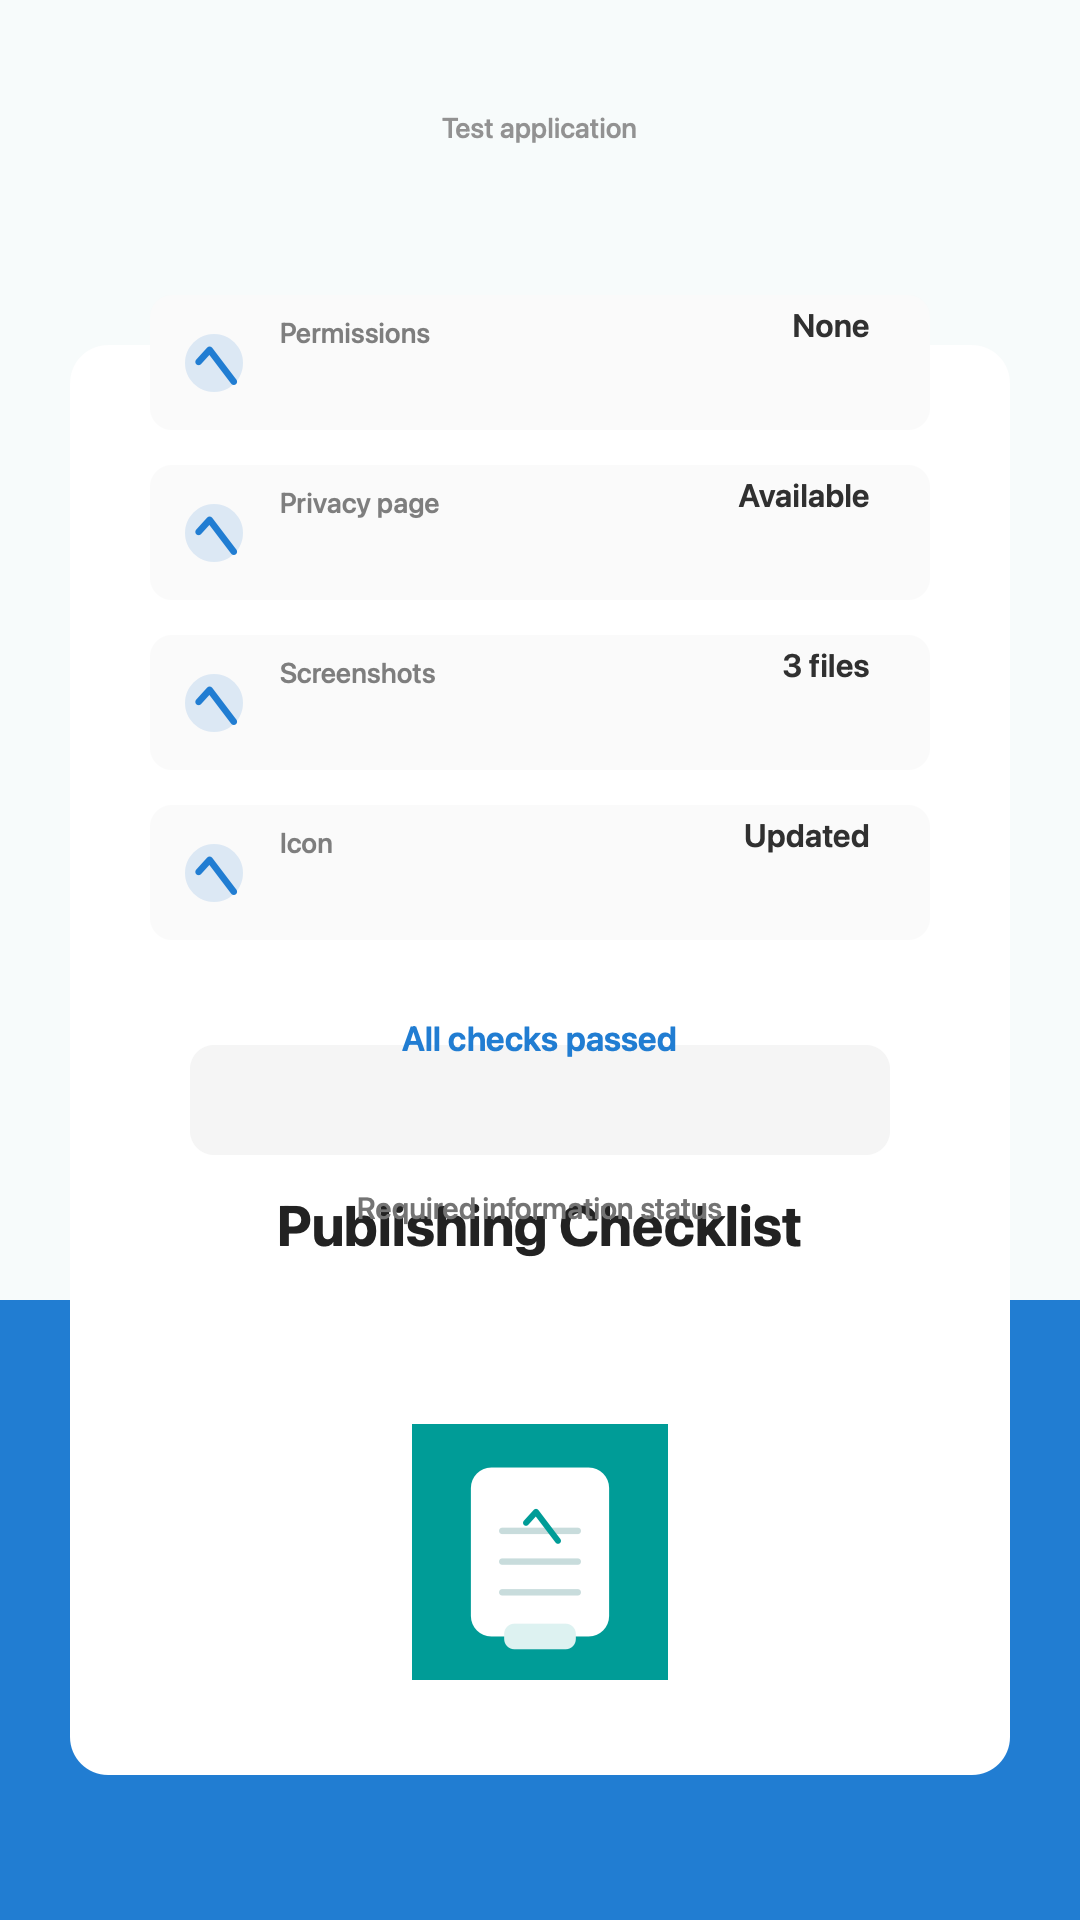
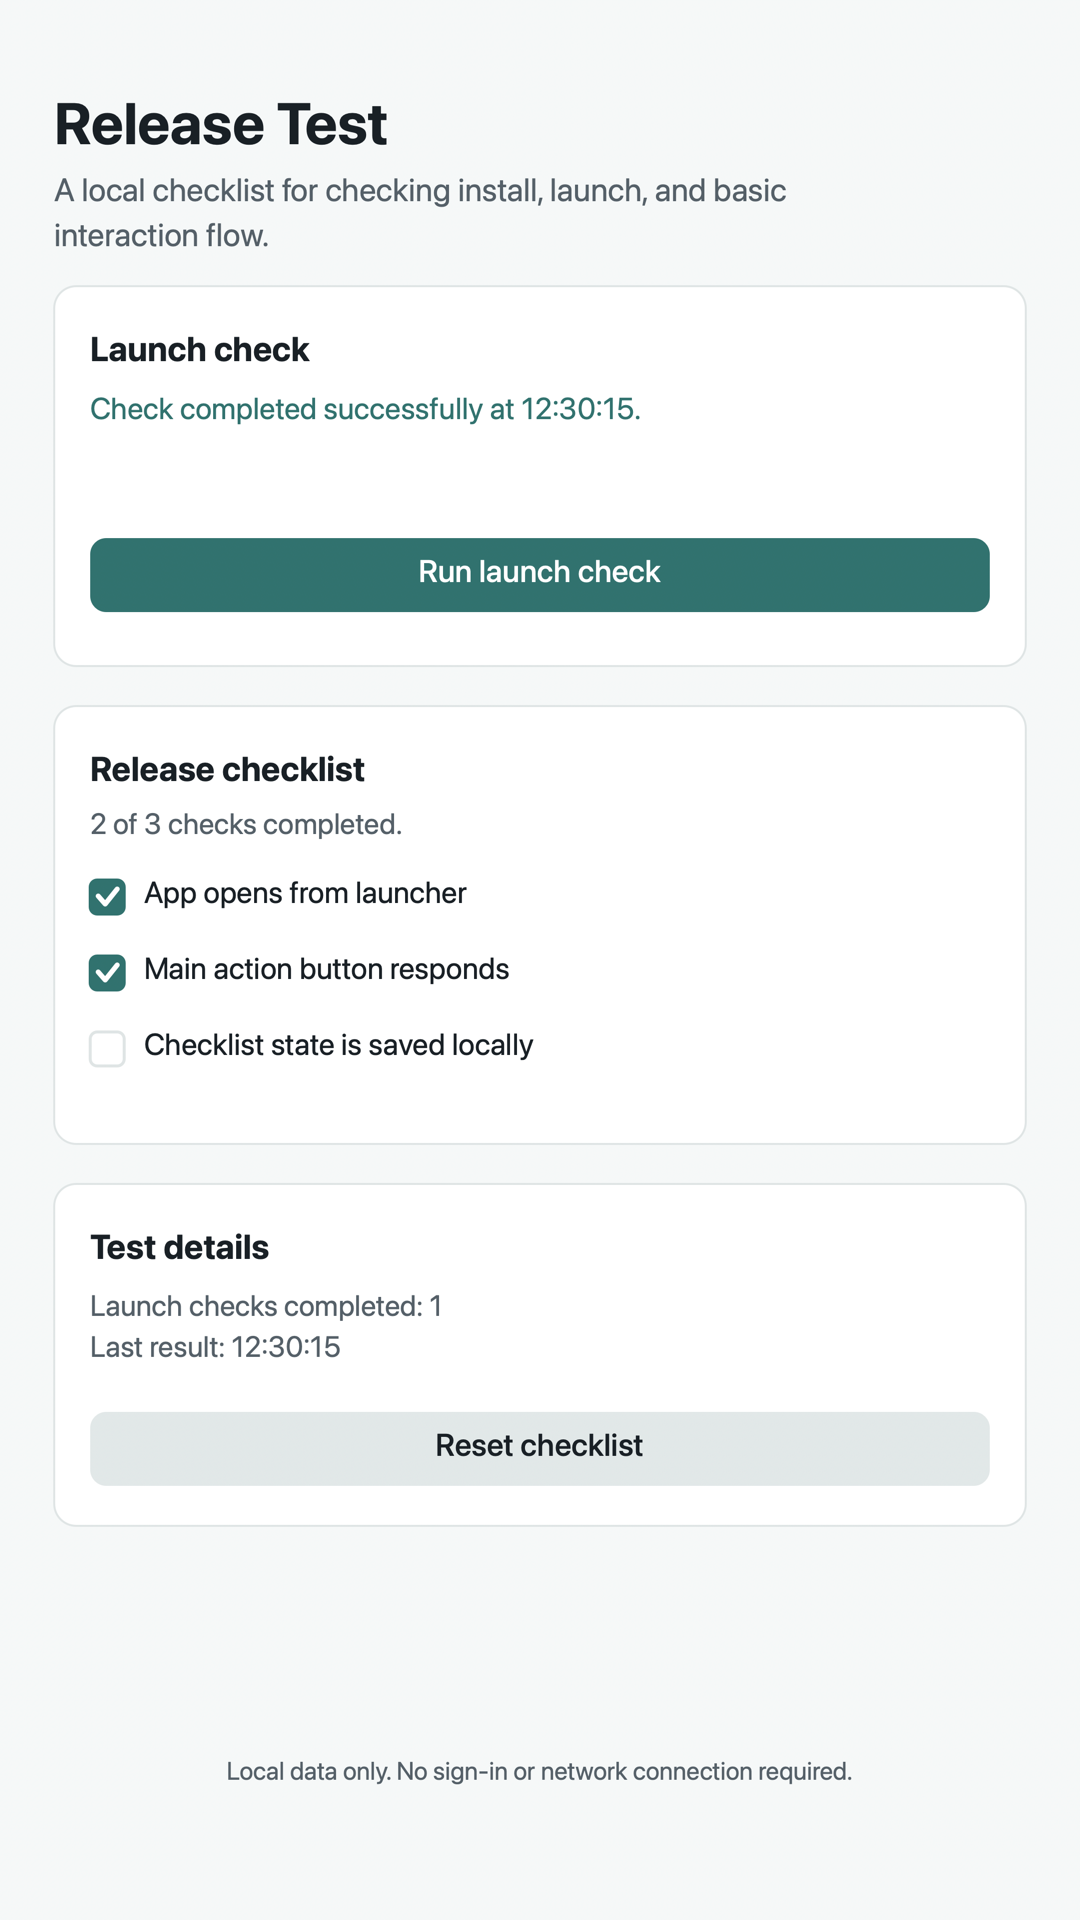
Add functional release checklist

diff --git a/app/src/main/java/com/vlados/appgallerytest/MainActivity.java b/app/src/main/java/com/vlados/appgallerytest/MainActivity.java
@@ -1,62 +1,230 @@
 package com.vlados.appgallerytest;
 
 import android.app.Activity;
+import android.content.SharedPreferences;
 import android.graphics.Color;
 import android.graphics.Typeface;
+import android.graphics.drawable.GradientDrawable;
 import android.os.Bundle;
-import android.view.Gravity;
 import android.view.ViewGroup;
+import android.widget.Button;
+import android.widget.CheckBox;
+import android.widget.CompoundButton;
 import android.widget.LinearLayout;
+import android.widget.ScrollView;
 import android.widget.TextView;
 
+import java.text.SimpleDateFormat;
+import java.util.Date;
+import java.util.Locale;
+
 public class MainActivity extends Activity {
+    private static final String PREFS_NAME = "release_test_state";
+    private static final String KEY_INSTALL = "install_checked";
+    private static final String KEY_ACTION = "action_checked";
+    private static final String KEY_STATE = "state_checked";
+    private static final String KEY_RUN_COUNT = "run_count";
+    private static final String KEY_LAST_RUN = "last_run";
+
+    private SharedPreferences prefs;
+    private TextView statusValue;
+    private TextView checklistSummary;
+    private TextView runCountValue;
+    private CheckBox installCheck;
+    private CheckBox actionCheck;
+    private CheckBox stateCheck;
+
     @Override
     protected void onCreate(Bundle savedInstanceState) {
         super.onCreate(savedInstanceState);
 
-        int padding = dp(24);
+        prefs = getSharedPreferences(PREFS_NAME, MODE_PRIVATE);
+
+        ScrollView scrollView = new ScrollView(this);
+        scrollView.setFillViewport(true);
+        scrollView.setBackgroundColor(Color.rgb(245, 248, 248));
 
         LinearLayout root = new LinearLayout(this);
         root.setOrientation(LinearLayout.VERTICAL);
-        root.setGravity(Gravity.CENTER);
-        root.setPadding(padding, padding, padding, padding);
-        root.setBackgroundColor(Color.rgb(245, 248, 248));
-
-        TextView title = new TextView(this);
-        title.setText("Release Test");
-        title.setTextColor(Color.rgb(23, 32, 38));
-        title.setTextSize(30);
-        title.setTypeface(Typeface.DEFAULT, Typeface.BOLD);
-        title.setGravity(Gravity.CENTER);
-
-        TextView subtitle = new TextView(this);
-        subtitle.setText("Test application for validating mobile store release flow.");
-        subtitle.setTextColor(Color.rgb(82, 96, 105));
-        subtitle.setTextSize(17);
-        subtitle.setGravity(Gravity.CENTER);
-        subtitle.setPadding(0, dp(16), 0, 0);
-
-        TextView status = new TextView(this);
-        status.setText("Installed and launched successfully");
-        status.setTextColor(Color.rgb(0, 116, 111));
-        status.setTextSize(18);
-        status.setGravity(Gravity.CENTER);
-        status.setPadding(0, dp(36), 0, 0);
-
-        root.addView(title, new LinearLayout.LayoutParams(
-                ViewGroup.LayoutParams.MATCH_PARENT,
-                ViewGroup.LayoutParams.WRAP_CONTENT
-        ));
-        root.addView(subtitle, new LinearLayout.LayoutParams(
-                ViewGroup.LayoutParams.MATCH_PARENT,
-                ViewGroup.LayoutParams.WRAP_CONTENT
-        ));
-        root.addView(status, new LinearLayout.LayoutParams(
+        root.setPadding(dp(24), dp(32), dp(24), dp(32));
+        scrollView.addView(root, new ScrollView.LayoutParams(
                 ViewGroup.LayoutParams.MATCH_PARENT,
                 ViewGroup.LayoutParams.WRAP_CONTENT
         ));
 
-        setContentView(root);
+        TextView title = text("Release Test", 30, Color.rgb(23, 32, 38), true);
+        TextView subtitle = text(
+                "A local checklist for checking install, launch, and basic interaction flow.",
+                17,
+                Color.rgb(82, 96, 105),
+                false
+        );
+        subtitle.setPadding(0, dp(10), 0, dp(22));
+
+        root.addView(title);
+        root.addView(subtitle);
+
+        LinearLayout statusCard = card();
+        TextView statusTitle = text("Launch check", 18, Color.rgb(23, 32, 38), true);
+        statusValue = text("", 16, Color.rgb(0, 116, 111), false);
+        statusValue.setPadding(0, dp(10), 0, dp(14));
+
+        Button runButton = new Button(this);
+        runButton.setText("Run launch check");
+        runButton.setAllCaps(false);
+        runButton.setTextSize(16);
+        runButton.setTextColor(Color.WHITE);
+        runButton.setBackground(buttonBackground(Color.rgb(0, 116, 111)));
+        runButton.setPadding(dp(14), dp(10), dp(14), dp(10));
+        runButton.setOnClickListener(view -> runLaunchCheck());
+
+        statusCard.addView(statusTitle);
+        statusCard.addView(statusValue);
+        statusCard.addView(runButton, new LinearLayout.LayoutParams(
+                ViewGroup.LayoutParams.MATCH_PARENT,
+                ViewGroup.LayoutParams.WRAP_CONTENT
+        ));
+        root.addView(statusCard);
+
+        LinearLayout checklistCard = card();
+        TextView checklistTitle = text("Release checklist", 18, Color.rgb(23, 32, 38), true);
+        checklistSummary = text("", 15, Color.rgb(82, 96, 105), false);
+        checklistSummary.setPadding(0, dp(8), 0, dp(12));
+
+        installCheck = checkbox("App opens from launcher", KEY_INSTALL);
+        actionCheck = checkbox("Main action button responds", KEY_ACTION);
+        stateCheck = checkbox("Checklist state is saved locally", KEY_STATE);
+
+        checklistCard.addView(checklistTitle);
+        checklistCard.addView(checklistSummary);
+        checklistCard.addView(installCheck);
+        checklistCard.addView(actionCheck);
+        checklistCard.addView(stateCheck);
+        root.addView(checklistCard);
+
+        LinearLayout detailsCard = card();
+        TextView detailsTitle = text("Test details", 18, Color.rgb(23, 32, 38), true);
+        runCountValue = text("", 15, Color.rgb(82, 96, 105), false);
+        runCountValue.setPadding(0, dp(10), 0, dp(14));
+
+        Button resetButton = new Button(this);
+        resetButton.setText("Reset checklist");
+        resetButton.setAllCaps(false);
+        resetButton.setTextSize(16);
+        resetButton.setTextColor(Color.rgb(23, 32, 38));
+        resetButton.setBackground(buttonBackground(Color.rgb(224, 232, 232)));
+        resetButton.setPadding(dp(14), dp(10), dp(14), dp(10));
+        resetButton.setOnClickListener(view -> resetState());
+
+        detailsCard.addView(detailsTitle);
+        detailsCard.addView(runCountValue);
+        detailsCard.addView(resetButton, new LinearLayout.LayoutParams(
+                ViewGroup.LayoutParams.MATCH_PARENT,
+                ViewGroup.LayoutParams.WRAP_CONTENT
+        ));
+        root.addView(detailsCard);
+
+        updateUi();
+        setContentView(scrollView);
+    }
+
+    private void runLaunchCheck() {
+        int nextCount = prefs.getInt(KEY_RUN_COUNT, 0) + 1;
+        String time = new SimpleDateFormat("HH:mm:ss", Locale.US).format(new Date());
+        prefs.edit()
+                .putBoolean(KEY_ACTION, true)
+                .putInt(KEY_RUN_COUNT, nextCount)
+                .putString(KEY_LAST_RUN, time)
+                .apply();
+        actionCheck.setChecked(true);
+        updateUi();
+    }
+
+    private void resetState() {
+        prefs.edit().clear().apply();
+        installCheck.setChecked(false);
+        actionCheck.setChecked(false);
+        stateCheck.setChecked(false);
+        updateUi();
+    }
+
+    private CheckBox checkbox(String label, String key) {
+        CheckBox checkBox = new CheckBox(this);
+        checkBox.setText(label);
+        checkBox.setTextSize(16);
+        checkBox.setTextColor(Color.rgb(23, 32, 38));
+        checkBox.setPadding(0, dp(6), 0, dp(6));
+        checkBox.setChecked(prefs.getBoolean(key, false));
+        checkBox.setOnCheckedChangeListener((CompoundButton buttonView, boolean isChecked) -> {
+            prefs.edit().putBoolean(key, isChecked).apply();
+            updateUi();
+        });
+        return checkBox;
+    }
+
+    private void updateUi() {
+        int completed = 0;
+        if (installCheck != null && installCheck.isChecked()) {
+            completed++;
+        }
+        if (actionCheck != null && actionCheck.isChecked()) {
+            completed++;
+        }
+        if (stateCheck != null && stateCheck.isChecked()) {
+            completed++;
+        }
+
+        int runCount = prefs.getInt(KEY_RUN_COUNT, 0);
+        String lastRun = prefs.getString(KEY_LAST_RUN, "Not run yet");
+        if (runCount == 0) {
+            statusValue.setText("Ready. Tap the button to verify that the app responds.");
+        } else {
+            statusValue.setText("Check completed successfully at " + lastRun + ".");
+        }
+        checklistSummary.setText(completed + " of 3 checks completed.");
+        runCountValue.setText("Launch checks completed: " + runCount + "\nLast result: " + lastRun);
+    }
+
+    private LinearLayout card() {
+        LinearLayout card = new LinearLayout(this);
+        card.setOrientation(LinearLayout.VERTICAL);
+        card.setPadding(dp(18), dp(18), dp(18), dp(18));
+        card.setBackground(cardBackground());
+
+        LinearLayout.LayoutParams params = new LinearLayout.LayoutParams(
+                ViewGroup.LayoutParams.MATCH_PARENT,
+                ViewGroup.LayoutParams.WRAP_CONTENT
+        );
+        params.setMargins(0, 0, 0, dp(16));
+        card.setLayoutParams(params);
+        return card;
+    }
+
+    private TextView text(String value, int size, int color, boolean bold) {
+        TextView textView = new TextView(this);
+        textView.setText(value);
+        textView.setTextSize(size);
+        textView.setTextColor(color);
+        textView.setLineSpacing(dp(2), 1.0f);
+        if (bold) {
+            textView.setTypeface(Typeface.DEFAULT, Typeface.BOLD);
+        }
+        return textView;
+    }
+
+    private GradientDrawable cardBackground() {
+        GradientDrawable drawable = new GradientDrawable();
+        drawable.setColor(Color.WHITE);
+        drawable.setCornerRadius(dp(8));
+        drawable.setStroke(dp(1), Color.rgb(222, 229, 229));
+        return drawable;
+    }
+
+    private GradientDrawable buttonBackground(int color) {
+        GradientDrawable drawable = new GradientDrawable();
+        drawable.setColor(color);
+        drawable.setCornerRadius(dp(6));
+        return drawable;
     }
 
     private int dp(int value) {